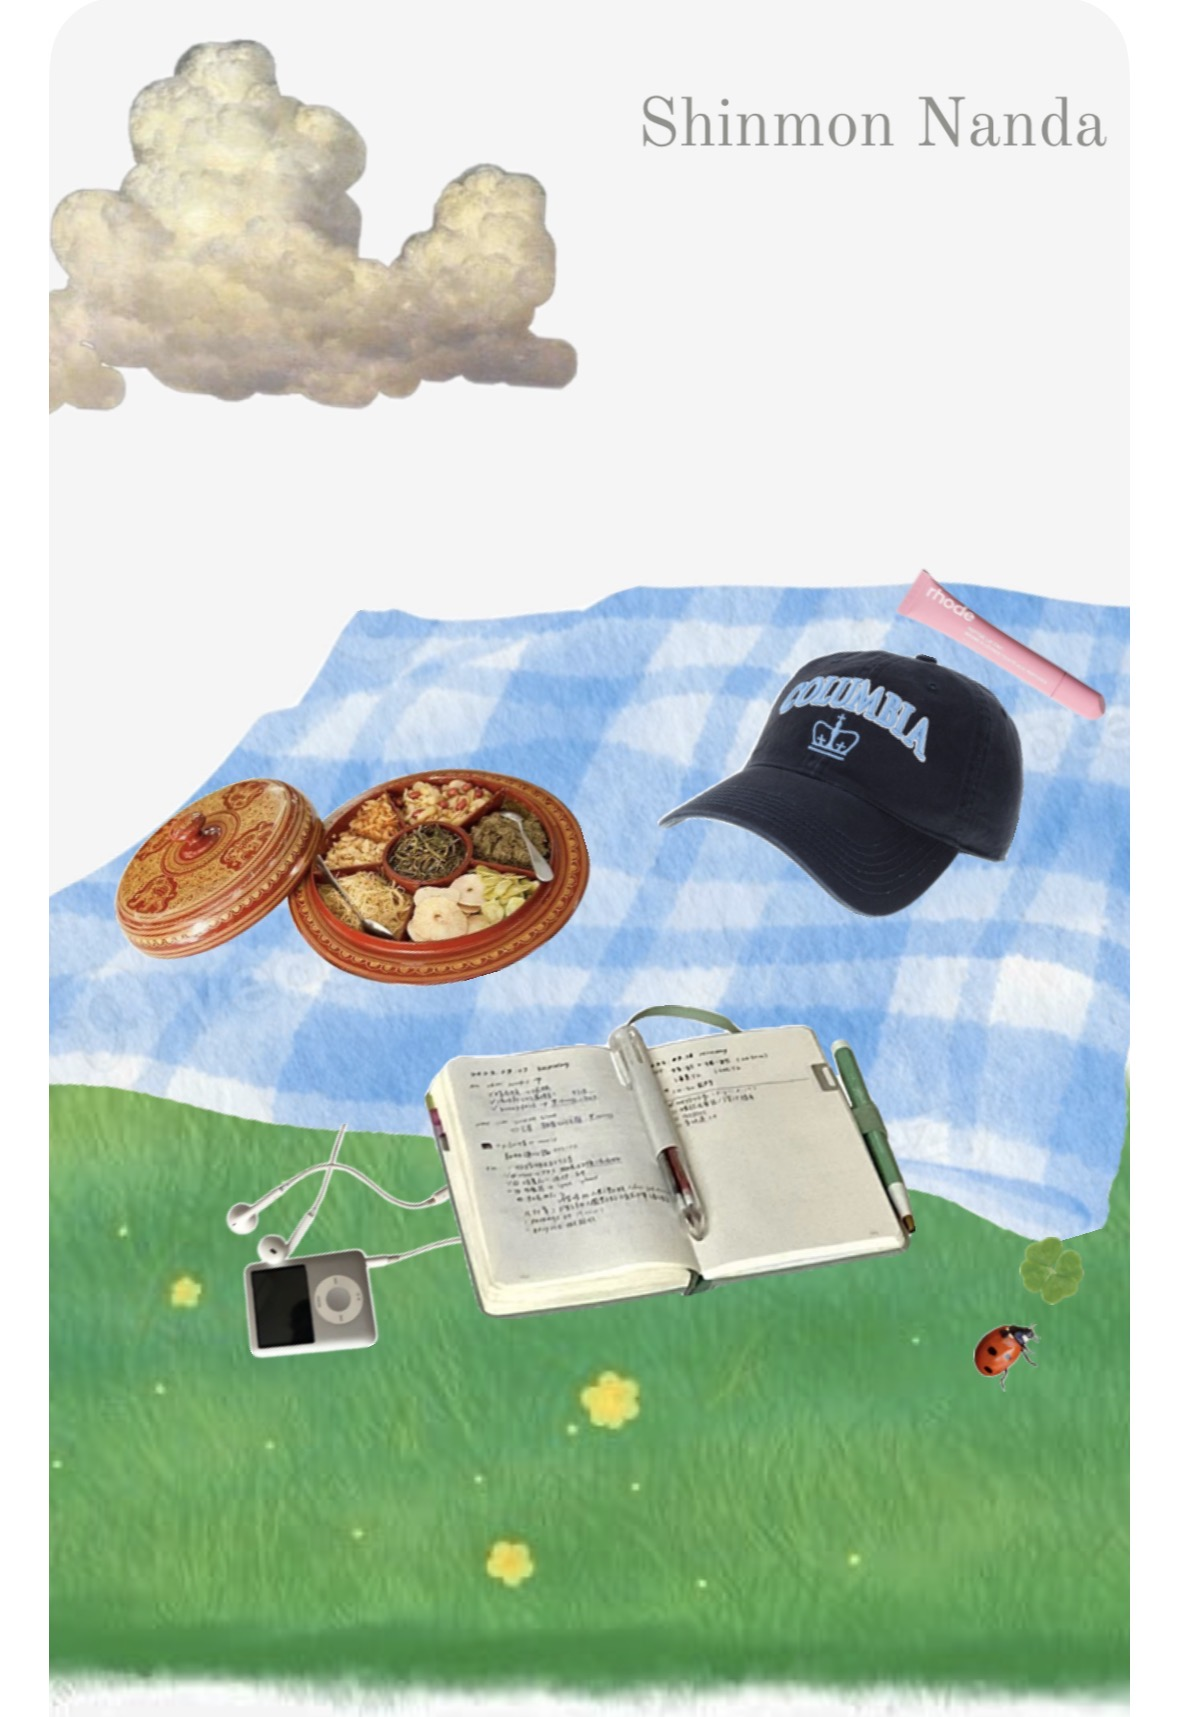
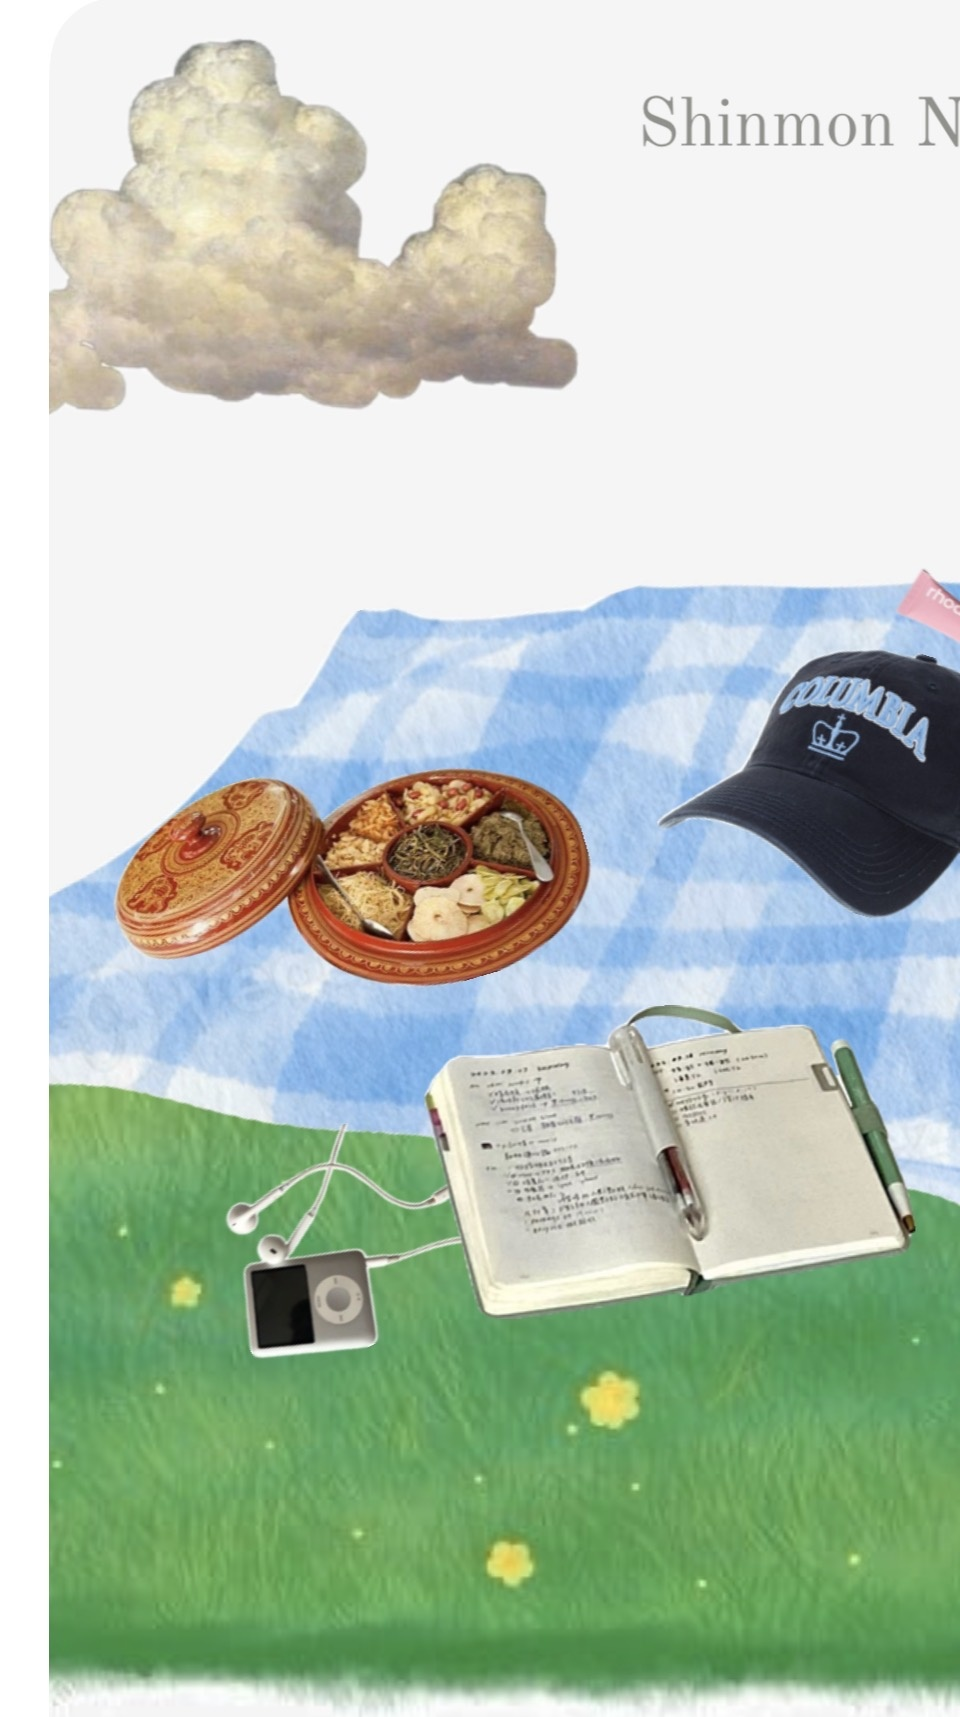
Remove doubled items, use invisible click zones over background image
- Items now invisible hit areas positioned over background image items
- Popup shows item image + description when tapped (no more doubles)
- Crop background 960px wide so cap, lip gloss, and name fully visible
- Remove Dancing Script HTML name; background photo name shows naturally
- Popups include item photo at top for visual context

diff --git a/index.html b/index.html
@@ -4,7 +4,7 @@
   <meta charset="UTF-8">
   <meta name="viewport" content="width=device-width, initial-scale=1.0">
   <title>Shinmon Nanda</title>
-  <link href="https://fonts.googleapis.com/css2?family=Dancing+Script:wght@700&family=Padauk:wght@400;700&family=Playfair+Display:ital,wght@0,400;0,600;1,400&family=Lato:wght@300;400;700&display=swap" rel="stylesheet">
+  <link href="https://fonts.googleapis.com/css2?family=Playfair+Display:ital,wght@0,400;0,600;1,400&family=Lato:wght@300;400;700&display=swap" rel="stylesheet">
   <style>
     *, *::before, *::after { margin: 0; padding: 0; box-sizing: border-box; }
     body { width: 100vw; height: 100vh; overflow: hidden; }
@@ -14,89 +14,75 @@
       position: relative;
       width: 100%;
       height: 100%;
-      background: url('images/background.jpg') 25% top / cover no-repeat;
+      background: url('images/background.jpg') 50% top / cover no-repeat;
       background-color: #dde2e8;
     }
 
-    /* ── NAME ────────────────────────────────── */
-    .name-area {
-      position: absolute;
-      top: 4.5%;
-      right: 6%;
-      text-align: right;
-      z-index: 10;
-      white-space: nowrap;
-      pointer-events: none;
-    }
-    .name-area h1 {
-      font-family: 'Dancing Script', cursive;
-      font-size: clamp(1.7rem, 4vw, 3.2rem);
-      color: #2a2a2a;
-      font-weight: 700;
-      text-shadow: 0 2px 10px rgba(255,255,255,0.7);
-    }
-    .name-area .burmese {
-      display: block;
-      margin-top: 2px;
-      font-family: 'Padauk', sans-serif;
-      font-size: clamp(0.75rem, 1.4vw, 1rem);
-      color: #444;
-      font-weight: 400;
-      letter-spacing: 0.04em;
-      text-shadow: 0 1px 6px rgba(255,255,255,0.7);
-    }
-
-    /* ── ITEMS ───────────────────────────────── */
+    /* ── INVISIBLE CLICK ZONES ───────────────── */
+    /* Items are not visible — they are hit areas over the background image items.
+       Popup reveals the image + info when tapped. */
     .item {
       position: absolute;
-      display: flex;
-      flex-direction: column;
-      align-items: center;
-      gap: 8px;
       cursor: pointer;
-      transition: transform 0.28s cubic-bezier(0.34, 1.56, 0.64, 1);
-      -webkit-tap-highlight-color: transparent;
       z-index: 5;
+      -webkit-tap-highlight-color: transparent;
+      border-radius: 50%;
     }
-    .item:hover  { transform: translateY(-9px) rotate(-2deg); }
-    .item:active { transform: translateY(-4px) rotate(-1deg); }
-
-    /* Positions matched to background image layout */
-    #item-tea { top: 34%; left: 2%;  }
-    #item-cap { top: 27%; left: 55%; }
-    #item-nb  { top: 48%; left: 23%; }
-
-    .item-label {
-      font-family: 'Lato', sans-serif;
-      font-size: 10px;
-      text-transform: uppercase;
-      letter-spacing: 0.12em;
-      color: #3a3a3a;
-      font-weight: 700;
-      opacity: 0;
-      transform: translateY(4px);
-      transition: opacity 0.2s, transform 0.2s;
-      white-space: nowrap;
-      user-select: none;
+    /* Subtle ring on hover so desktop users can discover clickable areas */
+    .item::after {
+      content: '';
+      position: absolute;
+      inset: -6px;
+      border-radius: inherit;
+      border: 2px solid rgba(255,255,255,0);
+      transition: border-color 0.25s, box-shadow 0.25s;
     }
-    .item:hover .item-label { opacity: 1; transform: translateY(0); }
+    .item:hover::after {
+      border-color: rgba(255,255,255,0.55);
+      box-shadow: 0 0 18px rgba(255,255,255,0.3);
+    }
+
+    /* Hit zone sizes and positions matched to background image items */
+    /* (background cropped to 960px wide, 50% horizontal, cover on mobile) */
+    #item-tea {
+      width: 130px; height: 130px;
+      top: 33%; left: 1%;
+    }
+    #item-cap {
+      width: 145px; height: 120px;
+      border-radius: 12px;
+      top: 26%; left: 57%;
+    }
+    #item-nb {
+      width: 180px; height: 120px;
+      border-radius: 10px;
+      top: 47%; left: 27%;
+    }
 
     /* ── POPUP ───────────────────────────────── */
     .popup {
       display: none;
       position: fixed;
       background: rgba(255, 253, 248, 0.97);
-      border: 1.5px solid rgba(180, 160, 120, 0.35);
-      border-radius: 12px;
-      padding: 14px 18px;
-      width: 210px;
-      box-shadow: 0 6px 22px rgba(0,0,0,0.13);
+      border: 1.5px solid rgba(180, 160, 120, 0.3);
+      border-radius: 14px;
+      padding: 12px 16px 14px;
+      width: 220px;
+      box-shadow: 0 8px 28px rgba(0,0,0,0.14);
       z-index: 100;
       pointer-events: none;
+      text-align: center;
     }
     .popup.show {
       display: block;
-      animation: pop-in 0.2s ease;
+      animation: pop-in 0.22s ease;
+    }
+    .popup-img {
+      width: 90px;
+      height: auto;
+      display: block;
+      margin: 0 auto 10px;
+      filter: drop-shadow(0 3px 7px rgba(0,0,0,0.22));
     }
     .popup h3 {
       font-family: 'Playfair Display', serif;
@@ -110,6 +96,7 @@
       font-size: 11.5px;
       color: #4a3828;
       line-height: 1.68;
+      text-align: left;
     }
     .popup::after {
       content: '';
@@ -121,32 +108,8 @@
       border-top-color: rgba(255, 253, 248, 0.97);
     }
     @keyframes pop-in {
-      from { opacity: 0; }
-      to   { opacity: 1; }
-    }
-
-    /* ── LAPHET THOKE ───────────────────────── */
-    .laphet-img {
-      width: 115px;
-      height: auto;
-      display: block;
-      filter: drop-shadow(0 5px 12px rgba(0,0,0,0.3));
-    }
-
-    /* ── NOTEBOOK ────────────────────────────── */
-    .notebook-img {
-      width: 175px;
-      height: auto;
-      display: block;
-      filter: drop-shadow(0 4px 10px rgba(0,0,0,0.28));
-    }
-
-    /* ── COLUMBIA CAP ────────────────────────── */
-    .cap-img {
-      width: 135px;
-      height: auto;
-      display: block;
-      filter: drop-shadow(0 5px 12px rgba(0,0,0,0.32));
+      from { opacity: 0; transform: translateX(-50%) translateY(-94%) scale(0.95); }
+      to   { opacity: 1; transform: translateX(-50%) translateY(-100%) scale(1); }
     }
   </style>
 </head>
@@ -154,43 +117,27 @@
 
 <div class="scene">
 
-  <!-- Name overlays the image's "Shinmon Nanda" text -->
-  <div class="name-area">
-    <h1>Shinmon Nanda</h1>
-    <span class="burmese">သျှင်မွန်နန္ဒ</span>
-  </div>
-
-  <!-- Popups -->
+  <!-- Popups — each shows an image of the item + description -->
   <div class="popup" id="popup-tea">
+    <img src="images/laphet.png" class="popup-img" alt="laphet thoke">
     <h3>laphet thoke ✨</h3>
     <p>Hi, I'm Shinmon — from Yangon, Burma. I care about justice, democracy, and the people who fight for both.</p>
   </div>
-  <div class="popup" id="popup-nb">
-    <h3>Policy &amp; Practice</h3>
-    <p>NGO work · advocacy · research. Passionate about governance, civil society, and Southeast Asian affairs.</p>
-  </div>
   <div class="popup" id="popup-cap">
+    <img src="images/cap.png" class="popup-img" alt="Columbia cap">
     <h3>Columbia University</h3>
     <p>Graduate student at the School of International and Public Affairs. Based in New York City.</p>
   </div>
-
-  <!-- Laphet Thoke — about me -->
-  <div class="item" id="item-tea" data-popup="popup-tea">
-    <img class="laphet-img" src="images/laphet.png" alt="laphet thoke">
-    <span class="item-label">about me</span>
+  <div class="popup" id="popup-nb">
+    <img src="images/notebook.png" class="popup-img" alt="notebook">
+    <h3>Policy &amp; Practice</h3>
+    <p>NGO work · advocacy · research. Passionate about governance, civil society, and Southeast Asian affairs.</p>
   </div>
 
-  <!-- Columbia Cap — columbia -->
-  <div class="item" id="item-cap" data-popup="popup-cap">
-    <img class="cap-img" src="images/cap.png" alt="Columbia cap">
-    <span class="item-label">columbia</span>
-  </div>
-
-  <!-- Notebook — my work -->
-  <div class="item" id="item-nb" data-popup="popup-nb">
-    <img class="notebook-img" src="images/notebook.png" alt="notebook">
-    <span class="item-label">my work</span>
-  </div>
+  <!-- Invisible click zones over background image items -->
+  <div class="item" id="item-tea" data-popup="popup-tea"></div>
+  <div class="item" id="item-cap" data-popup="popup-cap"></div>
+  <div class="item" id="item-nb"  data-popup="popup-nb"></div>
 
 </div>
 
@@ -203,7 +150,7 @@
       document.querySelectorAll('.popup').forEach(p => p.classList.remove('show'));
       if (!isOpen) {
         const rect = item.getBoundingClientRect();
-        const popupW = 210;
+        const popupW = 220;
         let left = rect.left + rect.width / 2;
         left = Math.max(popupW / 2 + 8, Math.min(left, window.innerWidth - popupW / 2 - 8));
         popup.style.left = left + 'px';